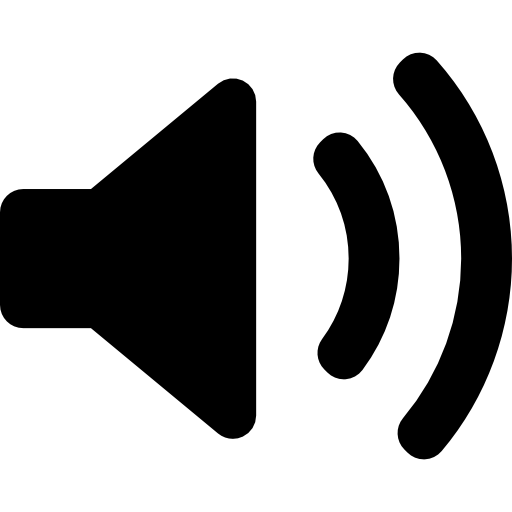
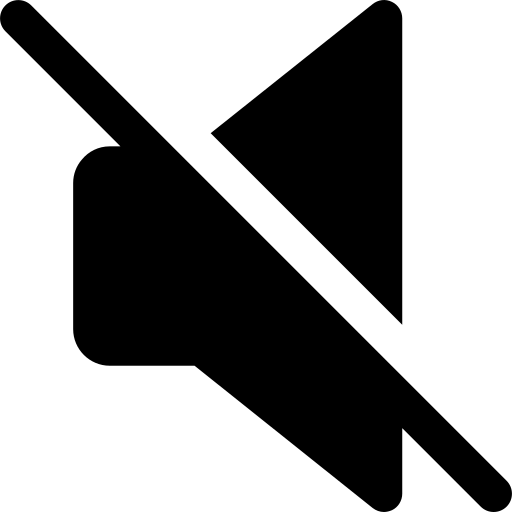
Se modifica pagina de choose

diff --git a/js/choose.js b/js/choose.js
@@ -1,11 +1,13 @@
 const mainContainer2 = document.getElementById('main-container2');
 const logoPokemonContainer = document.getElementById('logoPokemon-container')
 const theme = new Audio('../audio/RedTheme.mp3');
-theme.setAttribute('muted', 'true');
+theme.setAttribute('muted', 'muted');
+theme.setAttribute('autoplay', 'true');
+window.onload = () => theme.play();
 const welcomeContainer = document.getElementById('welcome-container');
 const welcomeContainerNombres = document.getElementById('welcome-container-nombres');
 const footerContainer = document.getElementById('footer-container');
-const audioOff = document.createElement('img');
+const audioOff = document.querySelector('.audioOff');
 const logoPokemonImg = document.createElement('img');
 const profOak = document.createElement('img');
 const msgWelcome = document.createElement('p');
@@ -21,6 +23,8 @@ const labContainerPokeballs = document.createElement('div');
 const labContainerPokemon = document.createElement('div');
 const labTitulo = document.createElement ('h2');
 const labSubtitulo = document.createElement('p');
+const labPokemonElegido = document.createElement('p');
+labPokemonElegido.classList.add('lab-p-pokemonElegido');
 
 //CLASE Poder
 
@@ -76,28 +80,18 @@ const OPONENTE_AL_AZAR = Math.floor(Math.random()*OPCIONES_POKEMON.length);
 localStorage.setItem('POKEMON_ENEMIGO', JSON.stringify(OPCIONES_POKEMON[OPONENTE_AL_AZAR]));
 
 //MUSICA
-footerContainer.appendChild(audioOff);
-audioOff.classList.add('audioOff');
 const currentSound = localStorage.getItem('SOUND');
-
-if(parseInt(currentSound) || currentSound === null) {
-    theme.play();
-    audioOff.setAttribute('src', '../img/audiooff.png');
-} else {
-    theme.pause();
-    audioOff.setAttribute('src', '../img/mute.png');
-}
 
 audioOff.onclick = () => {
     const currentSound = localStorage.getItem('SOUND');
     if (parseInt(currentSound) || currentSound === null) {
         localStorage.setItem('SOUND', 0);
         theme.pause()
-        audioOff.setAttribute('src', '../img/mute.png');
+        audioOff.setAttribute('src', '../img/audioOff.png');
     } else {
         localStorage.setItem('SOUND', 1);
         theme.play()
-        audioOff.setAttribute('src', '../img/audiooff.png');
+        audioOff.setAttribute('src', '../img/audioOn.png');
     }
 };
 audioOff.style.cursor = 'pointer';
@@ -119,7 +113,6 @@ setTimeout(function () {
         mainContainer2.appendChild(profOak);
         profOak.setAttribute('src', '../img/profOak.png');
         profOak.classList.add('profOak', 'animate__animated', 'animate__zoomIn');
-
         welcomeContainerNombres.appendChild(msgWelcome);
         msgWelcome.innerHTML = `Hola!<br>Soy el Profesor Oak.<br> Todo listo para comenzar?`;
         msgWelcome.classList.add('textos', 'animate__animated', 'animate__zoomIn');
@@ -128,7 +121,6 @@ setTimeout(function () {
         btnNext.classList.add('textos', 'btn-Next', 'animate__animated', 'animate__zoomIn');
     }, 10000);
 }, 4000);
-
 
 btnNext.addEventListener('click', () => {
     msgWelcome.classList.remove('animate__zoomIn');
@@ -227,10 +219,13 @@ function mostrarPokeballs() {
             imgPokemon.src = pok.source;
             imgPokemon.classList.add('animate__animated', 'animate__bounceIn');
             labContainerPokemon.appendChild(imgPokemon);
+            mainContainer2.appendChild(labPokemonElegido);
+            labPokemonElegido.innerHTML = `Haz click para escoger a ${pok.nombre}!`;
         }
 
         imgPokeball.onmouseleave = () => {
             imgPokeball.classList.remove('animate__animated', 'animate__bounce');
+            labPokemonElegido.innerHTML = '';
         }
 
         imgPokeball.onclick = () => {

diff --git a/css/style.css b/css/style.css
@@ -19,7 +19,7 @@ a {
   text-decoration: none; }
 
 .textos {
-  font-size: 1.1em;
+  font-size: 1.4vw;
   line-height: 1.6;
   text-align: center; }
 
@@ -126,7 +126,8 @@ form {
     grid-area: main;
     display: grid;
     grid-template-columns: repeat(12, 1fr);
-    grid-template-rows: repeat(12, 2.1rem); }
+    grid-template-rows: repeat(12, 2.1rem);
+    position: relative; }
     #container #main-container2 .lab-container-pokemon, #container #main-container3 .lab-container-pokemon {
       grid-column: 6/8;
       grid-row: 4/9;
@@ -148,12 +149,12 @@ form {
         overflow: hidden; }
     #container #main-container2 #welcome-container, #container #main-container3 #welcome-container {
       grid-column: 3/-3;
-      grid-row: 2/-2;
+      grid-row: 2/-1;
       min-width: 34rem;
-      max-height: 21rem; }
+      max-height: 25rem; }
     #container #main-container2 #welcome-container-nombres, #container #main-container3 #welcome-container-nombres {
       grid-column: 7/10;
-      grid-row: 2/-3;
+      grid-row: 2/-1;
       display: flex;
       flex-direction: column;
       justify-content: center;
@@ -166,13 +167,14 @@ form {
         padding: 0.5rem 1rem;
         width: 20rem; }
     #container #main-container2 .profOak, #container #main-container3 .profOak {
-      grid-column: 4/6;
+      grid-column: 4/-1;
       grid-row: 3/11;
+      margin-top: 2rem;
       width: 9em; }
     #container #main-container2 .lab-container, #container #main-container3 .lab-container {
       background-color: rgba(255, 255, 255, 0.75);
       grid-column: 3/-3;
-      grid-row: 2/-2;
+      grid-row: 2/-1;
       border-radius: 5rem;
       display: flex;
       flex-direction: column-reverse;
@@ -191,6 +193,11 @@ form {
         #container #main-container2 .lab-container .lab-container-pokeballs img, #container #main-container3 .lab-container .lab-container-pokeballs img {
           width: 3.3rem;
           height: 3rem; }
+    #container #main-container2 .lab-p-pokemonElegido, #container #main-container3 .lab-p-pokemonElegido {
+      grid-column: 3/-3;
+      grid-row: -1/-1;
+      margin: 2rem auto;
+      font-size: 1.5rem; }
   #container #main-container3 {
     grid-area: main;
     display: grid;

diff --git a/scss/style.scss b/scss/style.scss
@@ -24,7 +24,7 @@ a {
 }
 
 .textos {
-    font-size: 1.1em;
+    font-size: 1.4vw;
     line-height: 1.6;
     text-align: center;
 }
@@ -161,6 +161,7 @@ form{
         display: grid;
         grid-template-columns: repeat(12,1fr);
         grid-template-rows: repeat(12,2.1rem);
+        position: relative;
 
         .lab-container-pokemon{
             grid-column: 6/8;
@@ -191,14 +192,14 @@ form{
 
         #welcome-container{
             grid-column: 3/-3;
-            grid-row: 2/-2;
+            grid-row: 2/-1;
             min-width: 34rem;
-            max-height: 21rem;
+            max-height: 25rem;
         }
         
         #welcome-container-nombres{
             grid-column: 7/10;
-            grid-row: 2/-3;
+            grid-row: 2/-1;
             display: flex;
             flex-direction: column;
             justify-content: center;
@@ -215,15 +216,16 @@ form{
         }
 
         .profOak{
-            grid-column: 4/6;
+            grid-column: 4/-1;
             grid-row: 3/11;
+            margin-top: 2rem;
             width: 9em;
         }
 
         .lab-container{
             background-color: rgba(255, 255, 255, 0.75);
             grid-column: 3/-3;
-            grid-row: 2/-2;
+            grid-row: 2/-1;
             border-radius: 5rem;
             display: flex;
             flex-direction: column-reverse;
@@ -248,6 +250,12 @@ form{
                     height: 3rem;
                 }
             }
+        }
+        .lab-p-pokemonElegido {
+            grid-column: 3/-3;
+            grid-row: -1/-1;
+            margin: 2rem auto;
+            font-size: 1.5rem;
         }
     }
     

diff --git a/pages/choose.html b/pages/choose.html
@@ -25,6 +25,7 @@
         </main>
         <footer id="footer-container">
             <img class="redPikachu" src="../img/RedPikachu.png" alt="RedPikachu">
+            <img src="../img/audioOn.png" alt="Logo Sonido" class="audioOff">
         </footer>
     </div>
         <script src="https://cdn.jsdelivr.net/npm/bootstrap@5.0.2/dist/js/bootstrap.bundle.min.js" integrity="sha384-MrcW6ZMFYlzcLA8Nl+NtUVF0sA7MsXsP1UyJoMp4YLEuNSfAP+JcXn/tWtIaxVXM" crossorigin="anonymous"></script>

diff --git a/index.html b/index.html
@@ -34,6 +34,5 @@
         </div>
         <script src="https://cdn.jsdelivr.net/npm/bootstrap@5.0.2/dist/js/bootstrap.bundle.min.js" integrity="sha384-MrcW6ZMFYlzcLA8Nl+NtUVF0sA7MsXsP1UyJoMp4YLEuNSfAP+JcXn/tWtIaxVXM" crossorigin="anonymous"></script>
         <script src="./js/pokeball.js"></script>
-        <script src="./js/battle.js"></script>
     </body>
 </html>

diff --git a/js/pokeball.js b/js/pokeball.js
@@ -7,7 +7,6 @@ const pokeballNegro = document.getElementById('pokeball-negro');
 const pokeballBlanco = document.getElementById('pokeball-blanco');
 const btnPokeball = document.getElementById('btn-pokeball');
 
-
 btnPokeball.addEventListener('click', () => {
     pokeballSound.play();
     circleNegro.classList.add('animate__animated', 'animate__bounceOut');
